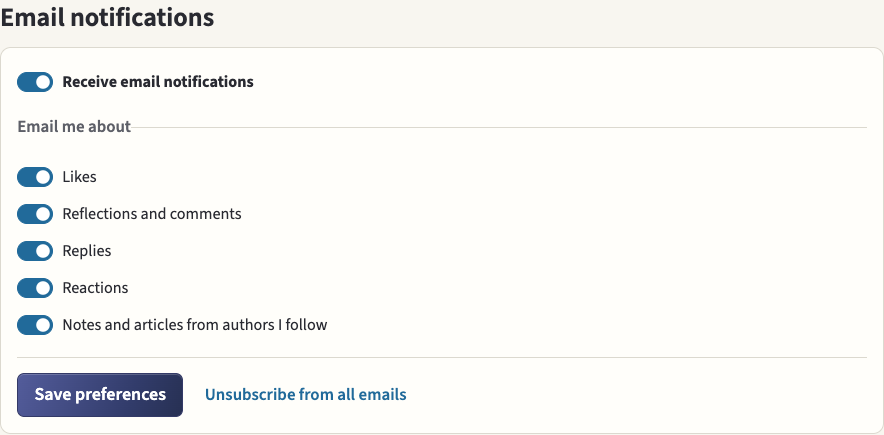
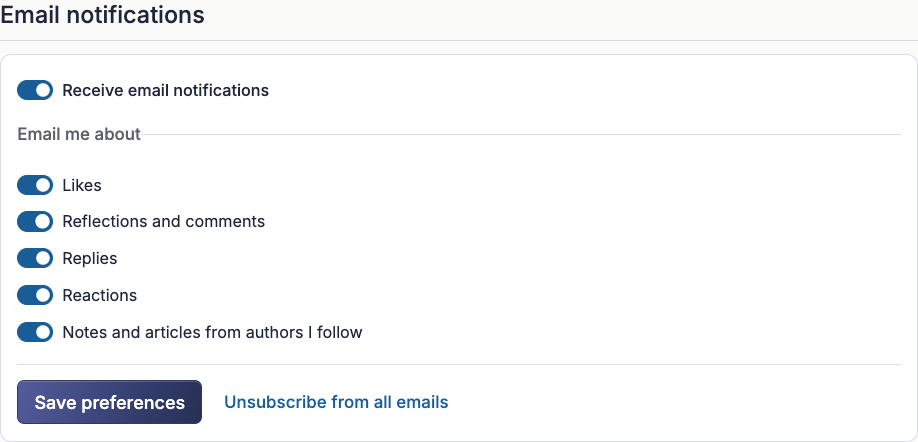
Bring email preferences into the Settings shell and type hierarchy

diff --git a/public/static/css/email-preferences.css b/public/static/css/email-preferences.css
@@ -1,12 +1,11 @@
-.email-preferences { width: min(100%, 54rem); margin-inline: auto; margin-bottom: 5rem; padding-inline: clamp(1rem, 4vw, 3rem); }
-.email-preferences .email-title { font: var(--ux-heading-weight) var(--ux-title-size)/1.2 var(--ux-font-ui); margin: .65rem 0 .4rem; }
+.email-preferences { width: min(100%, 54rem); margin: var(--ux-page-start) auto 0; margin-bottom: 5rem; padding-inline: var(--bs-gutter-x, 1.5rem); }
 .email-back { display: inline-flex; gap: .4rem; align-items: center; min-height: 2.5rem; }
 .email-preferences a { color: var(--ux-accent); text-underline-offset: .18em; }
-.email-intro, .email-preferences section > p, .email-feedback { color: var(--ux-muted); }
-.email-preferences section { margin-top: 1.75rem; }
-.email-preferences h2 { font: var(--ux-heading-weight) var(--ux-section-size)/1.3 var(--ux-font-ui); margin-bottom: .65rem; }
+.email-preferences section > p, .email-feedback { color: var(--ux-muted); }
+.email-preferences section { margin-top: var(--ux-title-gap); }
+.email-preferences .ux-section-title { margin-bottom: .75rem; }
 .email-preferences fieldset { margin-top: .75rem; padding: .75rem 0; border-block: 1px solid var(--ux-border); }
-.email-preferences legend { float: none; width: auto; font-size: .94rem; font-weight: 600; color: var(--ux-muted); margin-bottom: .3rem; }
+.email-preferences legend { float: none; width: auto; font-size: var(--ux-secondary-size); font-weight: var(--ux-emphasis-weight); color: var(--ux-muted); margin-bottom: .3rem; }
 .email-category, .email-master { padding-block: .35rem; margin: 0; cursor: pointer; }
 .email-preferences fieldset:disabled .email-category { cursor: default; }
 .email-actions, .email-author-row { display: flex; align-items: center; flex-wrap: wrap; gap: .5rem; }
@@ -14,6 +13,5 @@
 .email-author-row { justify-content: space-between; }
 .email-author-row a { overflow-wrap: anywhere; }
 .email-author-row + .email-author-row { border-top: 1px solid var(--ux-border); margin-top: .5rem; padding-top: .5rem; }
-.email-feedback { font-size: .94rem; margin: .65rem 0 0; }
+.email-feedback { font-size: var(--ux-secondary-size); margin: .65rem 0 0; }
 .email-feedback:empty, .email-preferences #community-status:empty { margin: 0; }
-.email-preferences a:focus-visible { outline: var(--ux-focus-ring); outline-offset: 2px; }

diff --git a/docs/design-system/library.html b/docs/design-system/library.html
@@ -20,6 +20,7 @@
       <dt>Overlay dismissal · shared standard</dt><dd>Use the same X button to close a modal dialog or an off-canvas rail throughout the app. <a href="#overlay-close">Close button specimen</a></dd>
       <dt>Books and Settings · shared layout standard</dt><dd>Use the same responsive section navigation, page heading, ruled section heading, rail title, local search field, focus ring and card corners. Below 992px the search field aligns with the content edges and leaves one rem before the first section. On desktop it aligns with the rail title. Keep account status with the page title when present.</dd>
       <dt>Settings · branch default</dt><dd><code>/settings</code> and <code>/quran/settings</code> open the makeover. From 992 px, the category rail shares the Books grid, right gutter, width and sticky header offset. Search stays in the rail and comes before the panels on phones.</dd>
+      <dt>Email preferences · under review</dt><dd><code>/community/email-preferences</code> uses the Settings masthead, footer, heading scale, switches and Midnight actions. Keep notification choices and author subscriptions in one column. The Back link returns to the expanded Email preferences row on the originating Settings route.</dd>
       <dt>Header, menu and footer · under review</dt><dd>Shared preview on Settings and Books. The masthead stays the same height during scroll. The left menu groups destinations by task and omits individual book lists and the Books shortcut. Books is available in desktop navigation and the footer.</dd>
       <dt>Books · under review</dt><dd><code>/books</code> opens the makeover. The page title must match Settings at the same viewport. The revised collection navigation, bilingual titles and classification treatment await visual approval. <a href="#catalog">Current Books specimens</a></dd>
     </dl>

diff --git a/routes/community.js b/routes/community.js
@@ -131,7 +131,7 @@ router.get('/media/:id',wrap(async(req,res)=>{
 router.get('/email-preferences', (req,res) => {
   const settingsRoutes = ['/settings', '/quran/settings'];
   const settingsReturn = settingsRoutes.includes(req.query.from) ? req.query.from : '/settings';
-  page(res, req, 'email-preferences', { settingsReturn });
+  page(res, req, 'email-preferences', { settingsReturn, makeoverShell: true });
 });
 router.get('/email-unsubscribe/:token/:category', wrap(async (req,res) => {
   await EmailPreferences.tokenRow(req.params.token,req.params.category);
